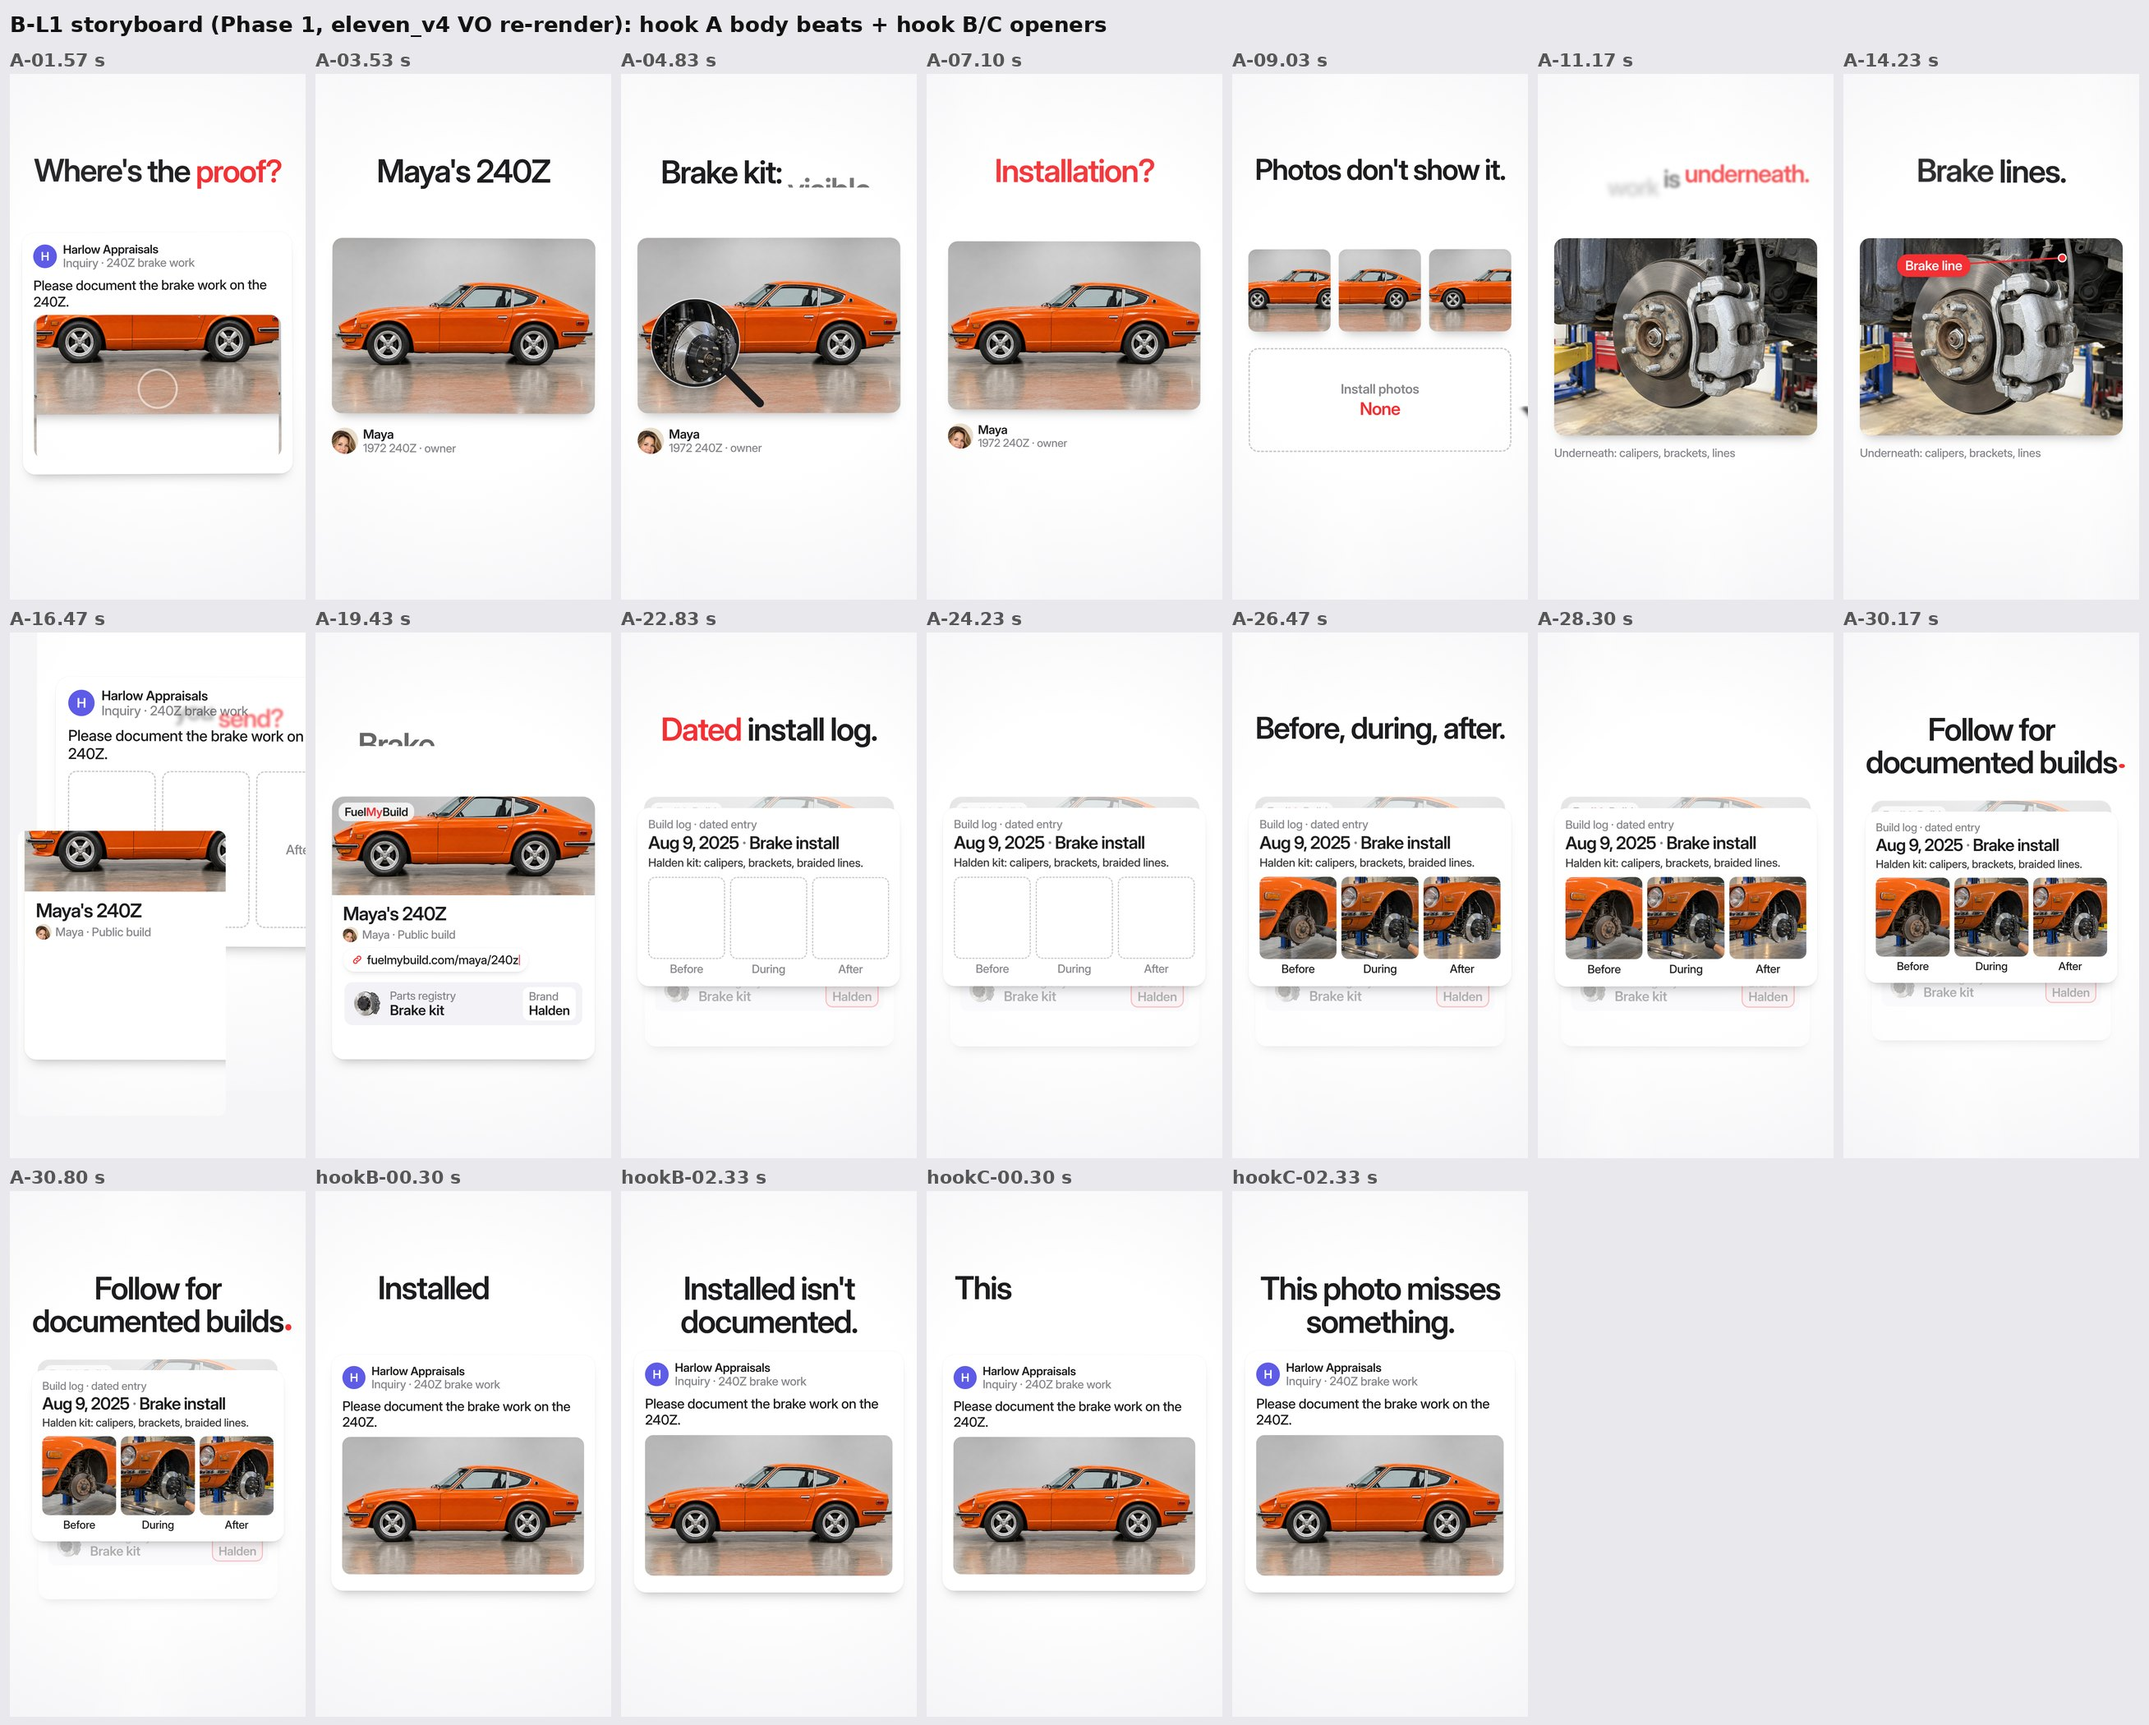
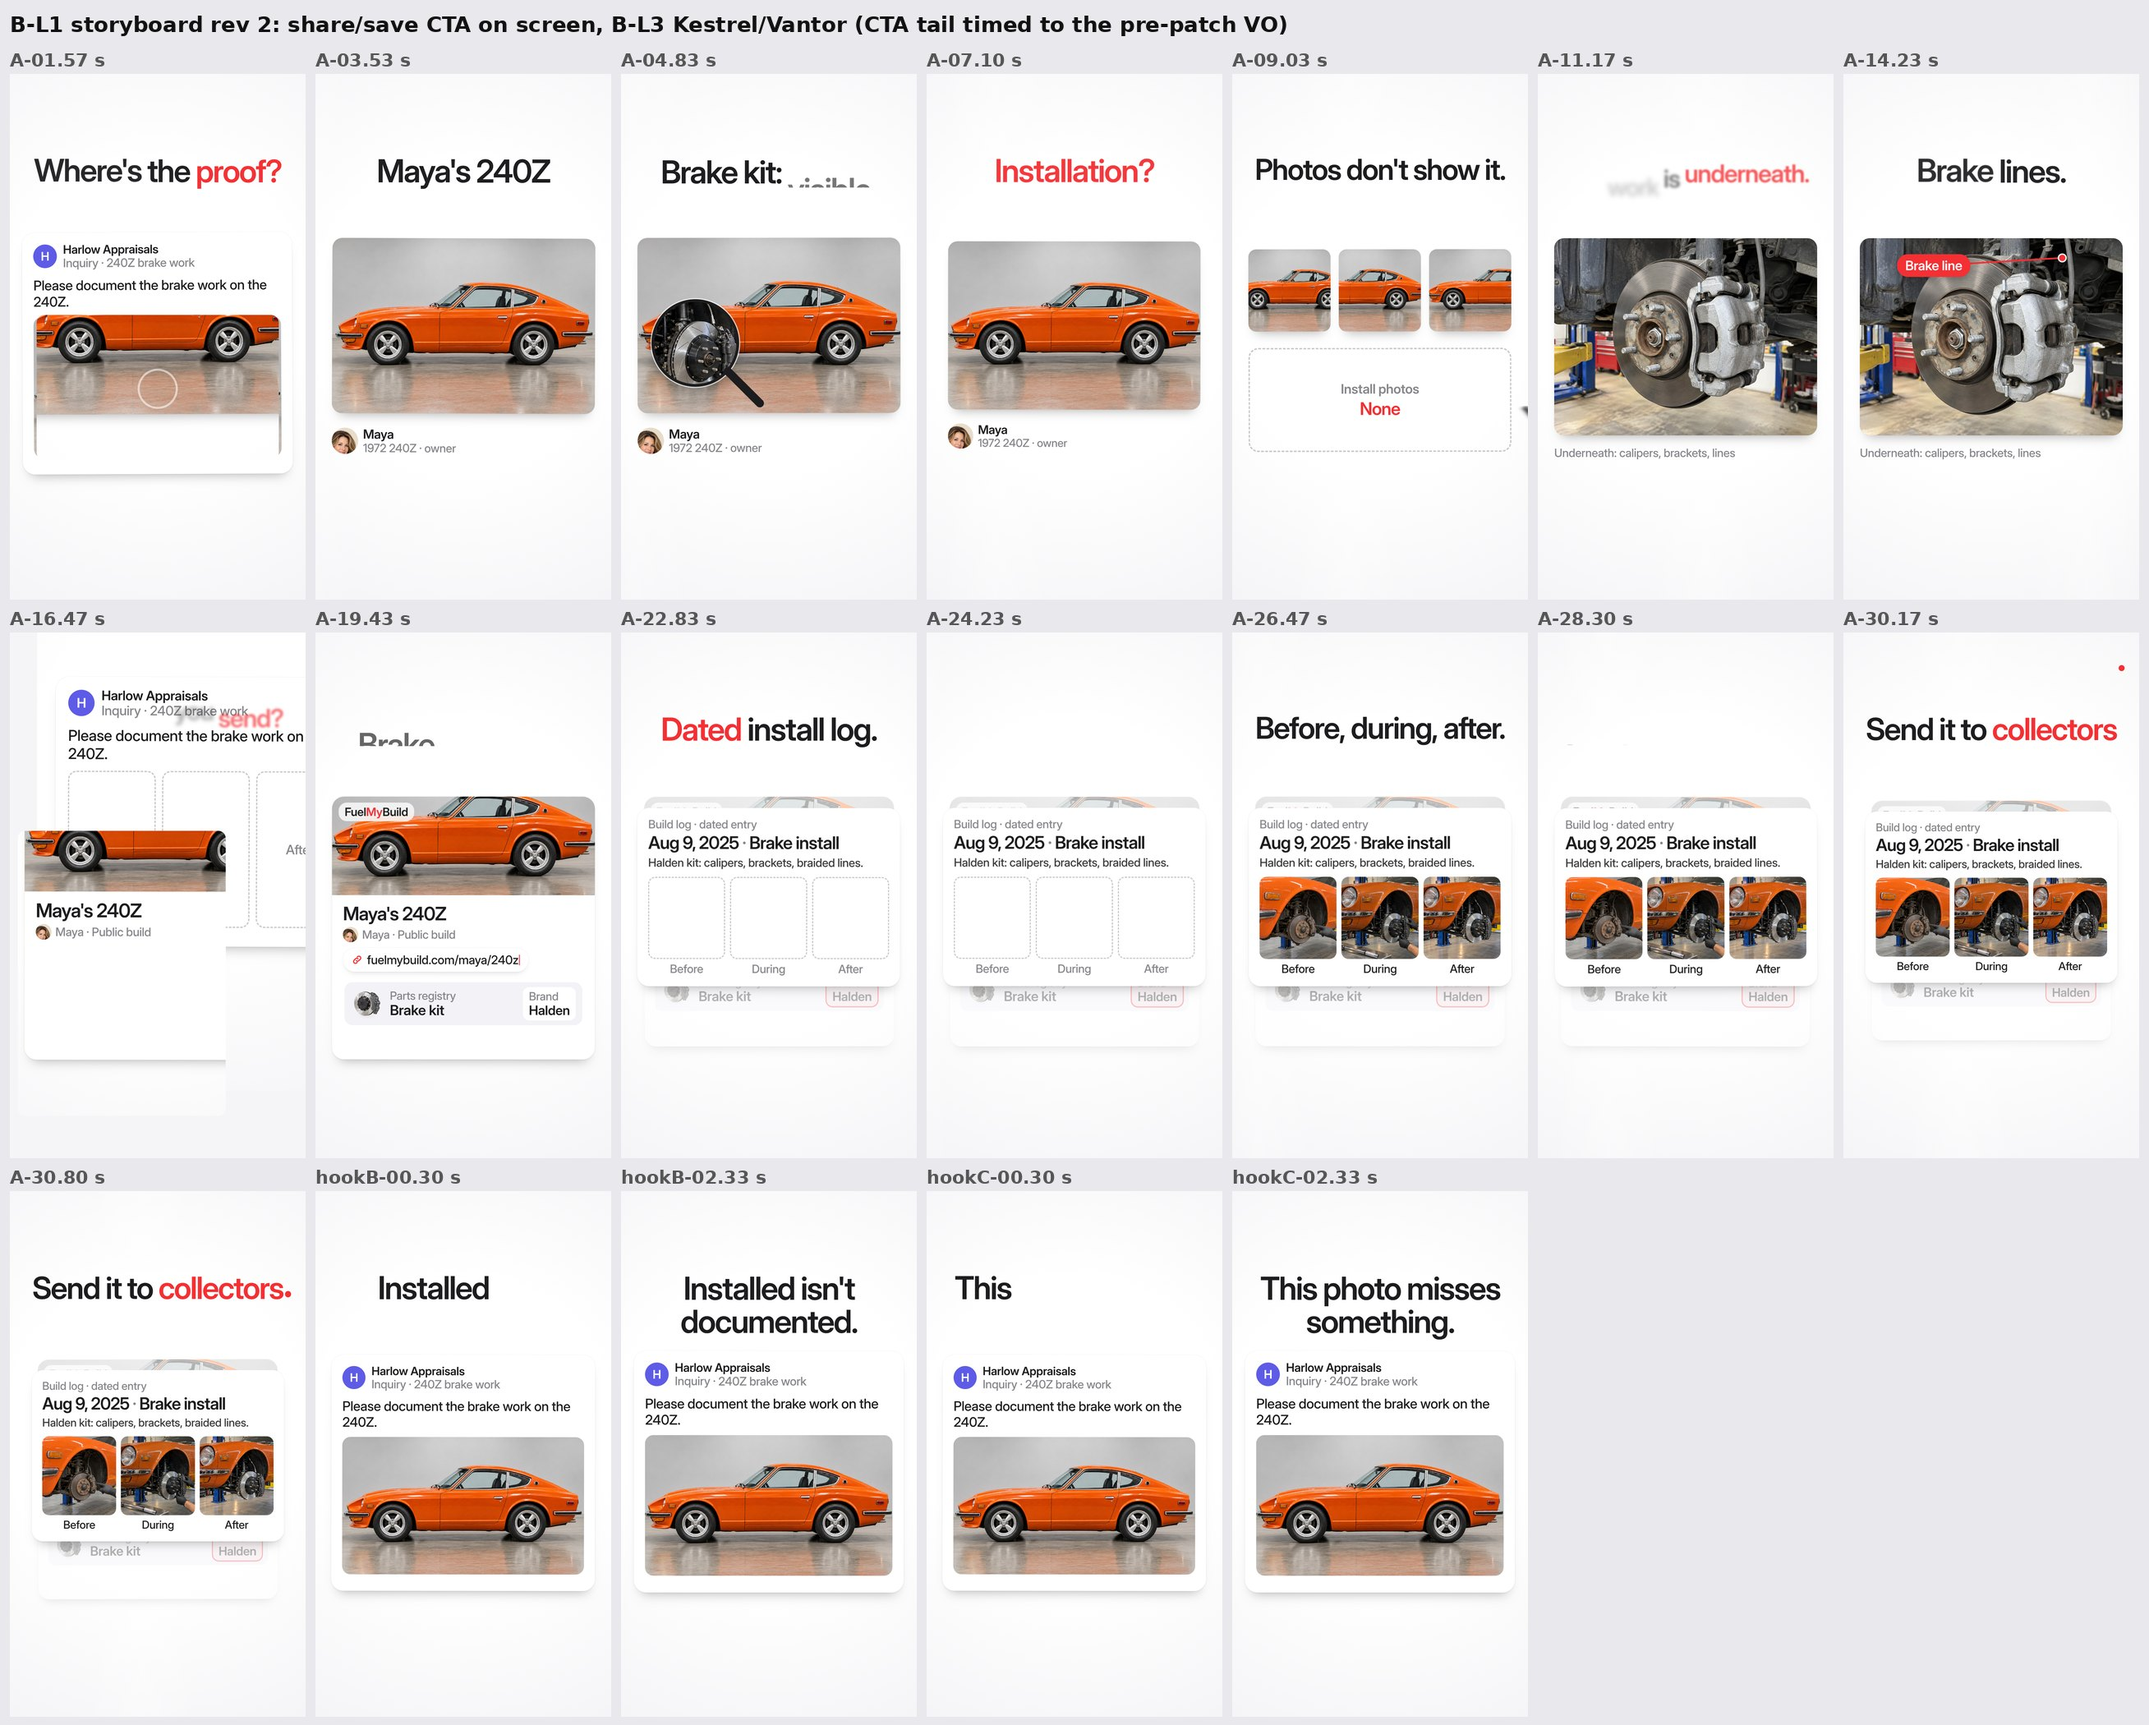
Sprint W44 lab remakes: storyboard rev 2 (share/save CTAs on screen, B-L3 Kestrel/Vantor, polish)
On-screen CTAs follow the share/save re-voice (<= 6 words, <= 4 on fast reels), the on-screen
URL is gone from the C3 CTAs, and B-L3 shows Kestrel (recorded) and Vantor (guessed).
The CTA and brand lookups fall back to the current words until the patched VO lands.
Polish: A-L1 brake-kit headline exit, no double period with period-drop, C3-SUP card
no longer blank during the unfold.

Claude-Session: https://claude.ai/code/session_016g3Ws6RKPFxbXeFgZ5cwJK

Changed region(s): [[0.0929, 0.0, 0.5883, 0.031], [0.867, 0.4024, 0.9908, 0.4643], [0.0, 0.7429, 0.1548, 0.7738]]

diff --git a/weeks/2026-W44/sprint/film/src/reels/C3-SUP.tsx b/weeks/2026-W44/sprint/film/src/reels/C3-SUP.tsx
@@ -59,7 +59,7 @@ export function build(tl, hook) {
     B("Just read my build.", T.just, { key: [3], hold: 0.9 }),
     B("That rear hanger.", T.that, { key: [2], hold: 1.2 }),
     fx(B("Six days. One link.", T.six), [T.six, at("days.", 1), at("one"), T.link]),
-    { ...ctaHead(tl, "Send this to parts brands.", T.ask), key: [3, 4] },
+    { ...ctaHead(tl, "Send this to parts brands", T.ask), key: [3, 4] },
   ];
   heads[3].words = heads[3].words.map((w, i) => ({ ...w, t: [at("a"), T.wrx][i] }));
   heads[heads.length - 1].hold = 9;
@@ -132,7 +132,7 @@ const LogCard = ({ t, T, p, from }) => {
     <div style={{ position: "absolute", left: 0, top: 0, width: 940, height: 860, transformOrigin: "0 0", transform: `scale(${w / 940}, ${h / 860})` }}>
       <div style={{ position: "absolute", left: 40, top: 40, ...inter(66, INK, 650), ...f(T.calder) }}>Exhaust · Calder</div>
       <div style={{ position: "absolute", left: 40, top: 120, ...inter(52, RED, 600), ...f(T.july) }}>Jul 22, 2026</div>
-      <div style={{ position: "absolute", left: PH.x, top: PH.y, width: PH.w, height: PH.h, borderRadius: 28, overflow: "hidden", ...f(T.just + 0.95) }}>
+      <div style={{ position: "absolute", left: PH.x, top: PH.y, width: PH.w, height: PH.h, borderRadius: 28, overflow: "hidden", ...f(T.just + 0.75) }}>
         <img src={src("G08")} style={{ width: "100%", height: "100%", objectFit: "cover", transformOrigin: "73% 20%", transform: `scale(${1.02 + 0.08 * ez(t, T.that, 1.5, EASE.io)})` }} />
       </div>
       {ride > 0.01 && <div style={{ position: "absolute", left: 0, top: 0, opacity: c }}>

diff --git a/weeks/2026-W44/sprint/film/src/reels/A-L1.tsx b/weeks/2026-W44/sprint/film/src/reels/A-L1.tsx
@@ -42,7 +42,7 @@ export function build(tl, hook) {
     ...hk.map((h, i) => (i === hk.length - 1 ? { ...h, exit: { at: T.fin - 0.35, mode: "up" } } : h)),
     { words: wordsFor(tl.body, "Finished-car photo", T.fin), out: "up" },
     { words: wordsFor(tl.body, "What's underneath?", T.cant + 0.4), key: [1], exit: { at: PORTAL - 0.25, mode: "push", to: { x: 300, y: 820 } } },
-    { words: wordsFor(tl.body, "The brake kit.", T.kit - 0.2), key: [1, 2], exit: { at: T.name - 0.3, mode: "into", to: { x: 540, y: 620 } } },
+    { words: wordsFor(tl.body, "The brake kit.", T.kit - 0.2), key: [1, 2], exit: { at: T.name - 0.32, mode: "up" } },
     fieldHead("Name the part.", T.name, "PART", 0),
     fieldHead("Show the brand.", T.show, "BRAND", 1),
     fieldHead("Date the install.", T.date, "DATE", 2),
@@ -52,7 +52,7 @@ export function build(tl, hook) {
     { words: wordsFor(tl.body, "One public link.", T.one), key: [2] },
     { words: wordsFor(tl.body, "Work, recorded.", T.now), key: [1], keyAt: T.record },
     ...(T.what && T.what < T.follow ? [{ words: wordsFor(tl.body, "Hardest to prove?", T.what), key: [2] }] : []),
-    { ...ctaHead(tl, "Send them this.", T.follow), key: [2] },
+    { ...ctaHead(tl, "Send them this", T.follow), key: [2] },
   ];
   // fix the "The work, recorded." timing: its words are not spoken verbatim, spread them over the line
   const rec = heads[heads.length - 3];

diff --git a/weeks/2026-W44/sprint/film/src/reels/A-L3.tsx b/weeks/2026-W44/sprint/film/src/reels/A-L3.tsx
@@ -65,7 +65,7 @@ export function build(tl, hook) {
     B("Less guesswork.", T.less, { hold: 0.6 }),
     B("More context.", T.more, { key: [1], hold: 1.0 }),
     ...(T.mis && T.mis < T.follow ? [B("Most misidentified part?", T.sup, { key: [1] })] : []),
-    { ...ctaHead(tl, "Send them this.", T.follow), key: [2] },
+    { ...ctaHead(tl, "Send them this", T.follow), key: [2] },
   ];
   const fx = (h, ts) => { h.words = h.words.map((w, i) => ({ ...w, t: ts[i] ?? w.t })); };
   fx(heads.find((h) => h.words[0].w === "In"), [at("both"), at("in"), at("parts"), T.registry]);

diff --git a/weeks/2026-W44/sprint/film/src/reels/B-L2.tsx b/weeks/2026-W44/sprint/film/src/reels/B-L2.tsx
@@ -66,7 +66,7 @@ export function build(tl, hook) {
     B("Install photos.", T.install - 0.1, { hold: 0.8 }),
     fx(B("Who did what.", T.now), [T.whodid, at("did", 2), at("what")]),
     B("Which would you call?", T.which, { key: [3] }),
-    { ...ctaHead(tl, "Send this their way.", T.follow), key: [3] },
+    { ...ctaHead(tl, "Send this their way", T.follow), key: [3] },
   ];
   // "Who installed the engine?" must find "who" after "but"
   heads[7] = B("Who installed the engine?", at("who", 2), { key: [1] });

diff --git a/weeks/2026-W44/sprint/film/src/reels/C3-GAR.tsx b/weeks/2026-W44/sprint/film/src/reels/C3-GAR.tsx
@@ -109,7 +109,7 @@ export function build(tl, hook) {
     B("Hang on.", T.hang, { hold: 0.5 }),
     B("You still should've called.", T.still - 0.25, { key: [3] }),
     B("Then they talked engine.", T.then, { key: [3] }),
-    { ...ctaHead(tl, "Shop owners, save this.", T.log), key: [2, 3] },
+    { ...ctaHead(tl, "Shop owners, save this", T.log), key: [2, 3] },
   ];
   fx(heads[5], [T.then, at("they"), at("talked"), T.engine]);
   heads[heads.length - 1].hold = 9;

diff --git a/weeks/2026-W44/sprint/film/src/reels/C3-COL.tsx b/weeks/2026-W44/sprint/film/src/reels/C3-COL.tsx
@@ -66,7 +66,7 @@ export function build(tl, hook) {
     B("Both of us.", T.both, { hold: 0.6 }),
     B("Nobody won.", T.nobody, { hold: 0.5 }),
     B("They split the check.", T.split - 0.2, { key: [3], hold: 0.5 }),
-    { ...ctaHead(tl, "Save this one.", T.date), key: [2] },
+    { ...ctaHead(tl, "Save this one", T.date), key: [2] },
   ];
   heads[2].key = [2];
   heads[heads.length - 1].hold = 9;
